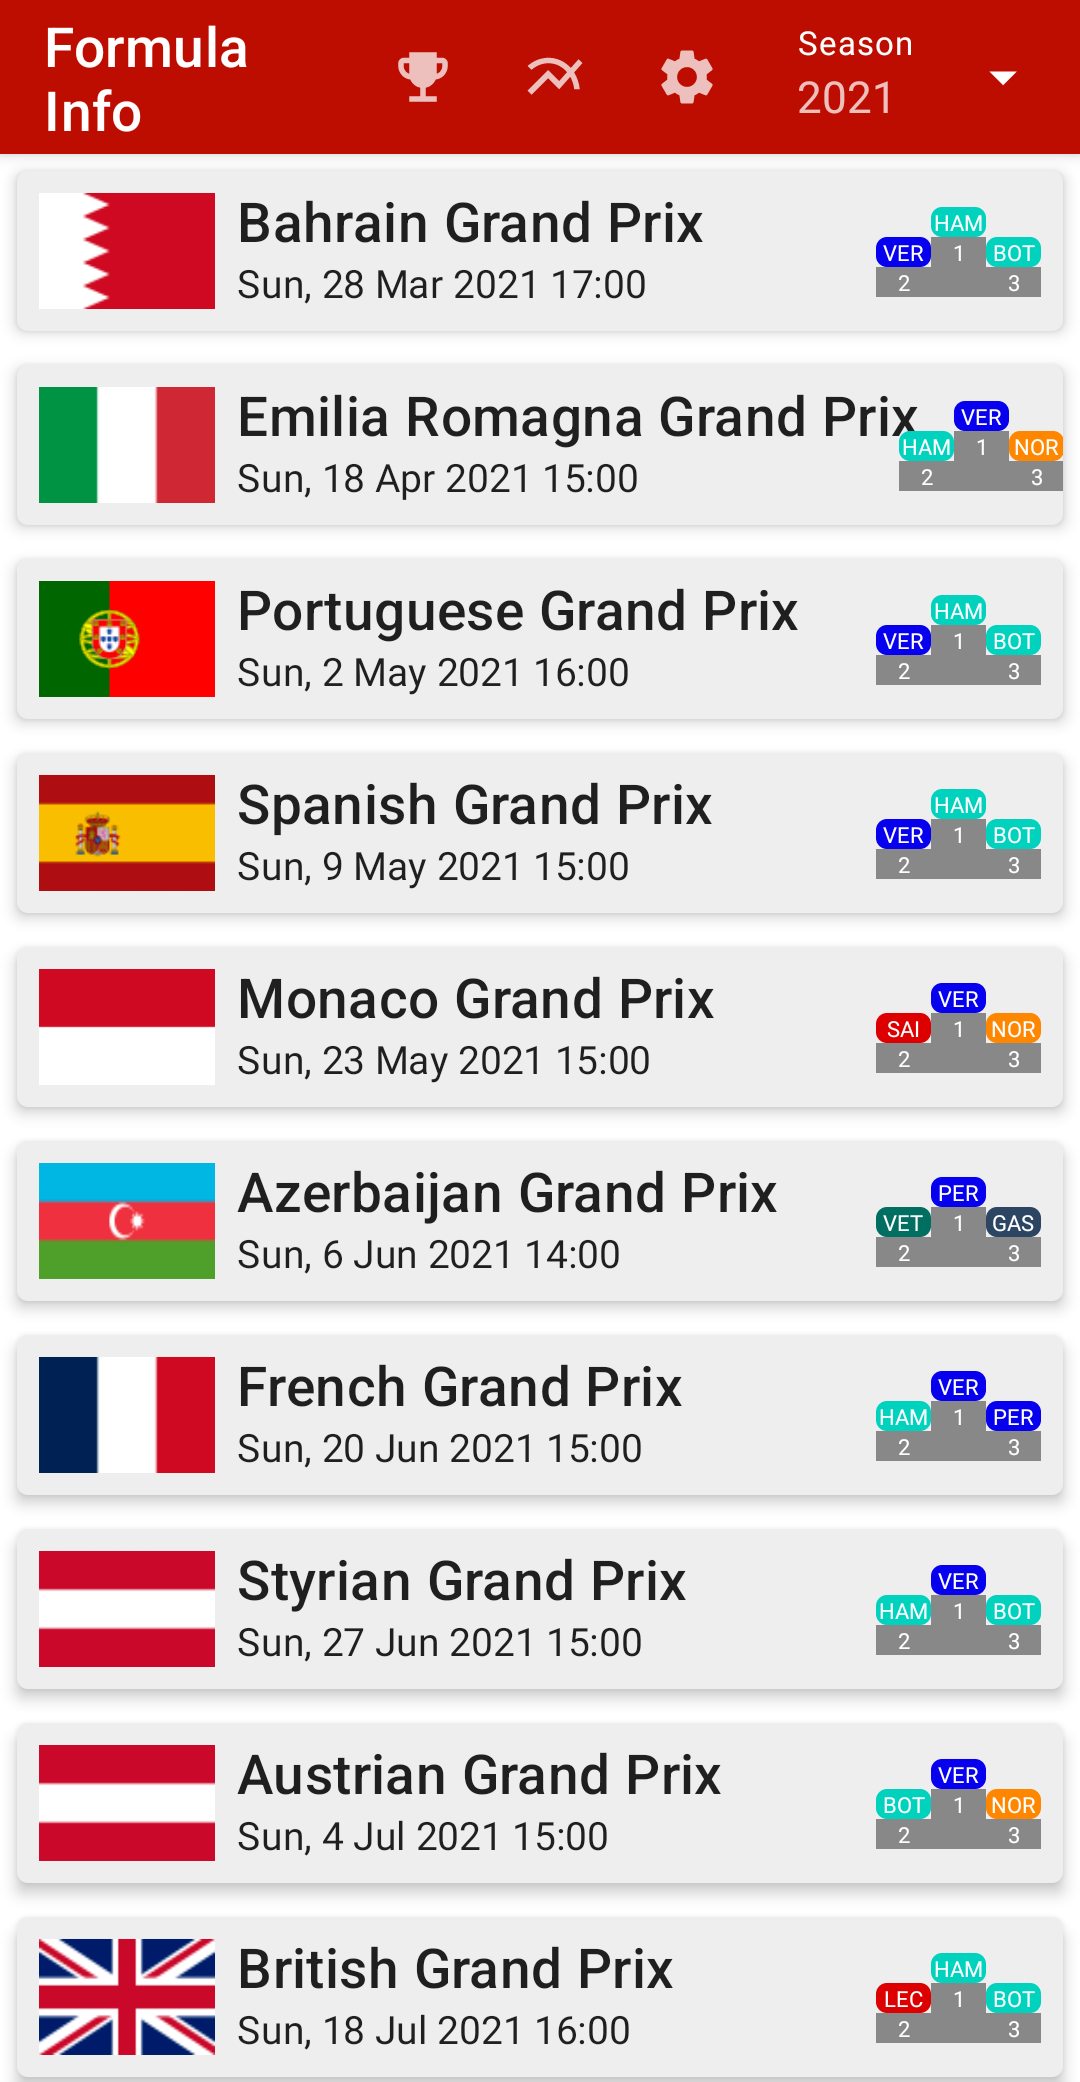
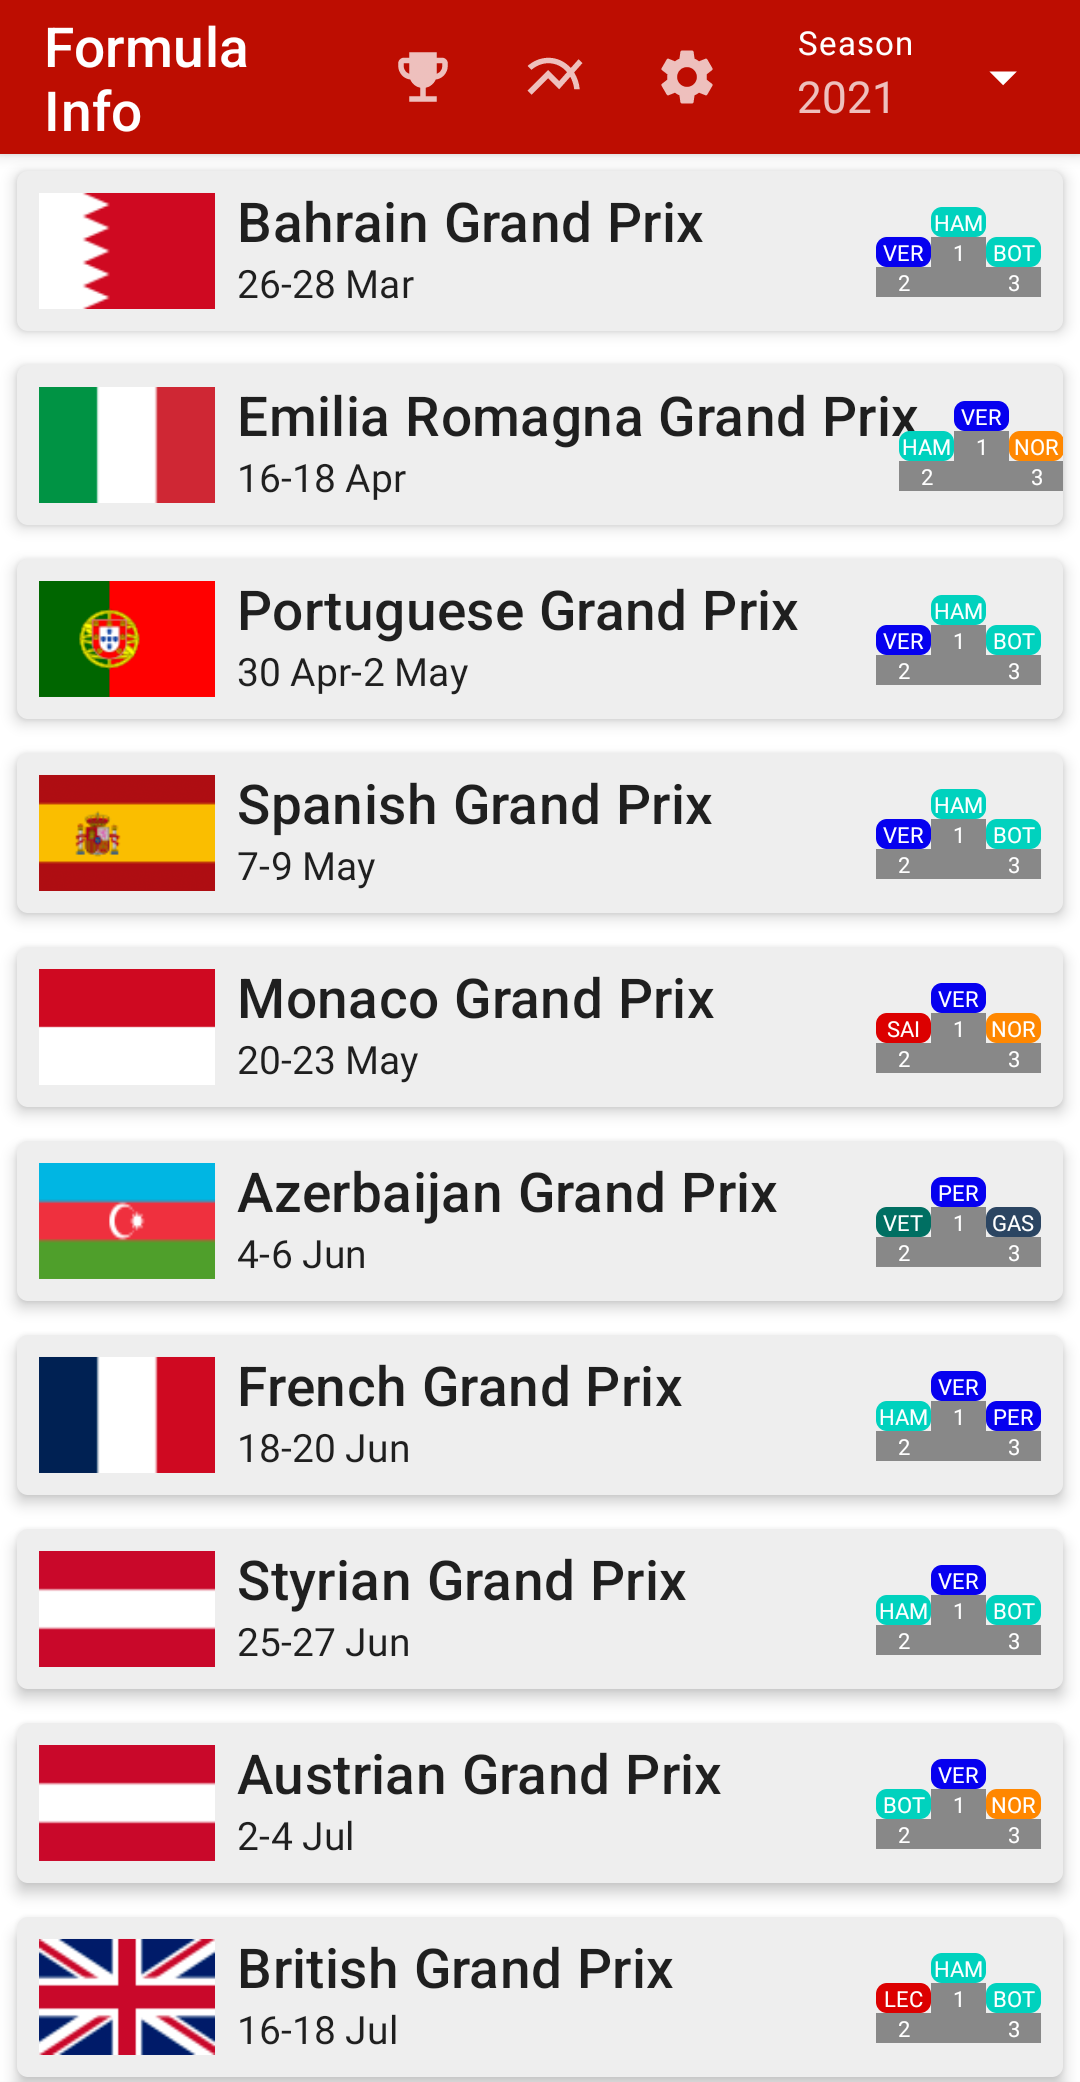
60 update race schedule date format (#105)
* change schedule date format + flag icon + remove year #60

* add new line #60

* fix ktlint issues #60

* support null fp1 date #60

* update screenshot

diff --git a/app/src/main/java/com/jventrib/formulainfo/ui/common/CustomDateTimeFormatter.kt b/app/src/main/java/com/jventrib/formulainfo/ui/common/CustomDateTimeFormatter.kt
@@ -10,42 +10,16 @@ import java.time.temporal.ChronoField
 
 val customDateTimeFormatter: DateTimeFormatter?
     get() {
-        // manually code maps to ensure correct data always used
-        // (locale data can be changed by application code)
-        val dow: MutableMap<Long, String> = HashMap()
-        dow[1L] = "Mon"
-        dow[2L] = "Tue"
-        dow[3L] = "Wed"
-        dow[4L] = "Thu"
-        dow[5L] = "Fri"
-        dow[6L] = "Sat"
-        dow[7L] = "Sun"
-        val moy: MutableMap<Long, String> = HashMap()
-        moy[1L] = "Jan"
-        moy[2L] = "Feb"
-        moy[3L] = "Mar"
-        moy[4L] = "Apr"
-        moy[5L] = "May"
-        moy[6L] = "Jun"
-        moy[7L] = "Jul"
-        moy[8L] = "Aug"
-        moy[9L] = "Sep"
-        moy[10L] = "Oct"
-        moy[11L] = "Nov"
-        moy[12L] = "Dec"
-
         return DateTimeFormatterBuilder()
             .parseCaseInsensitive()
             .parseLenient()
             .optionalStart()
-            .appendText(ChronoField.DAY_OF_WEEK, dow)
+            .appendText(ChronoField.DAY_OF_WEEK, getDayOfMonth())
             .appendLiteral(", ")
             .optionalEnd()
             .appendValue(ChronoField.DAY_OF_MONTH, 1, 2, SignStyle.NOT_NEGATIVE)
             .appendLiteral(' ')
-            .appendText(ChronoField.MONTH_OF_YEAR, moy)
-            .appendLiteral(' ')
-            .appendValue(ChronoField.YEAR, 4) // 2 digit year not handled
+            .appendText(ChronoField.MONTH_OF_YEAR, getMonthOfYear())
             .appendLiteral(' ')
             .appendValue(ChronoField.HOUR_OF_DAY, 2)
             .appendLiteral(':')
@@ -54,8 +28,16 @@ val customDateTimeFormatter: DateTimeFormatter?
             .toFormatter()
     }
 
-fun Instant.formatDateTime(): String =
-    ZonedDateTime.ofInstant(this, ZoneId.systemDefault()).format(customDateTimeFormatter)
+val simpleDayMonthFormatter: DateTimeFormatter?
+    get() {
+        return DateTimeFormatterBuilder()
+            .parseCaseInsensitive()
+            .parseLenient()
+            .appendValue(ChronoField.DAY_OF_MONTH, 1, 2, SignStyle.NOT_NEGATIVE)
+            .appendLiteral(' ')
+            .appendText(ChronoField.MONTH_OF_YEAR, getMonthOfYear())
+            .toFormatter()
+    }
 
 val customTimeHourMinFormatter: DateTimeFormatter?
     get() {
@@ -68,5 +50,52 @@ val customTimeHourMinFormatter: DateTimeFormatter?
             .toFormatter()
     }
 
+fun Instant.zonedDateTime(): ZonedDateTime =
+    ZonedDateTime.ofInstant(this, ZoneId.systemDefault())
+
+fun Instant.formatDateTime(): String =
+    this.zonedDateTime().format(customDateTimeFormatter)
+
 fun Instant.formatTime(): String =
-    ZonedDateTime.ofInstant(this, ZoneId.systemDefault()).format(customTimeHourMinFormatter)
+    this.zonedDateTime().format(customTimeHourMinFormatter)
+
+fun formatDateRange(from: Instant?, to: Instant): String {
+    val zonedTo = to.zonedDateTime()
+    val formattedZonedTo = zonedTo.format(simpleDayMonthFormatter)
+    if (from == null) return formattedZonedTo
+
+    val zonedFrom = from.zonedDateTime()
+    return if (zonedFrom.monthValue == zonedTo.monthValue) "${zonedFrom.dayOfMonth}-$formattedZonedTo"
+    else "${zonedFrom.format(simpleDayMonthFormatter)}-$formattedZonedTo"
+}
+
+// manually code maps to ensure correct data always used
+// (locale data can be changed by application code)
+fun getDayOfMonth(): Map<Long, String> {
+    val dow: MutableMap<Long, String> = HashMap()
+    dow[1L] = "Mon"
+    dow[2L] = "Tue"
+    dow[3L] = "Wed"
+    dow[4L] = "Thu"
+    dow[5L] = "Fri"
+    dow[6L] = "Sat"
+    dow[7L] = "Sun"
+    return dow
+}
+
+fun getMonthOfYear(): Map<Long, String> {
+    val moy: MutableMap<Long, String> = HashMap()
+    moy[1L] = "Jan"
+    moy[2L] = "Feb"
+    moy[3L] = "Mar"
+    moy[4L] = "Apr"
+    moy[5L] = "May"
+    moy[6L] = "Jun"
+    moy[7L] = "Jul"
+    moy[8L] = "Aug"
+    moy[9L] = "Sep"
+    moy[10L] = "Oct"
+    moy[11L] = "Nov"
+    moy[12L] = "Dec"
+    return moy
+}

diff --git a/app/src/main/java/com/jventrib/formulainfo/ui/race/RaceInfo.kt b/app/src/main/java/com/jventrib/formulainfo/ui/race/RaceInfo.kt
@@ -2,13 +2,18 @@ package com.jventrib.formulainfo.ui.race
 
 import androidx.compose.foundation.layout.Column
 import androidx.compose.foundation.layout.Row
+import androidx.compose.foundation.layout.Spacer
 import androidx.compose.foundation.layout.fillMaxHeight
 import androidx.compose.foundation.layout.fillMaxWidth
 import androidx.compose.foundation.layout.height
 import androidx.compose.foundation.layout.padding
+import androidx.compose.foundation.layout.size
 import androidx.compose.foundation.layout.width
+import androidx.compose.material.Icon
 import androidx.compose.material.MaterialTheme
 import androidx.compose.material.Text
+import androidx.compose.material.icons.Icons
+import androidx.compose.material.icons.outlined.SportsScore
 import androidx.compose.runtime.Composable
 import androidx.compose.runtime.collectAsState
 import androidx.compose.runtime.getValue
@@ -31,7 +36,9 @@ import com.jventrib.formulainfo.model.db.Race
 import com.jventrib.formulainfo.model.db.Result
 import com.jventrib.formulainfo.ui.common.composable.Image
 import com.jventrib.formulainfo.ui.common.composable.ItemCard
+import com.jventrib.formulainfo.ui.common.formatDateRange
 import com.jventrib.formulainfo.ui.common.formatDateTime
+import com.jventrib.formulainfo.ui.common.formatTime
 import com.jventrib.formulainfo.ui.common.raceCountDownFormat
 import com.jventrib.formulainfo.ui.schedule.Podium
 import com.jventrib.formulainfo.ui.schedule.getRaceSample
@@ -105,7 +112,7 @@ fun RaceInfo(
                         MaterialTheme.typography.body1
                     )
                 } else {
-                    SessionDateText(race.raceInfo.sessions.race)
+                    SessionDateRangeText(race.raceInfo.sessions.fp1, race.raceInfo.sessions.race)
                 }
                 if (mode == RaceInfoMode.Maxi) {
                     CountDown(to = race.raceInfo.sessions.race)
@@ -141,6 +148,37 @@ private fun SessionDateText(
         style = textStyle,
         fontWeight = if (it.isAfter(now())) FontWeight.Bold else FontWeight.Normal
     )
+}
+
+@Composable
+private fun SessionDateRangeText(
+    from: Instant?,
+    to: Instant,
+    textStyle: TextStyle = MaterialTheme.typography.body2
+) {
+    Row(
+        verticalAlignment = CenterVertically
+
+    ) {
+        Text(
+            text = formatDateRange(from, to),
+            style = textStyle,
+            fontWeight = if (to.isAfter(now())) FontWeight.Bold else FontWeight.Normal
+        )
+        if (to.isAfter(now())) {
+            Spacer(Modifier.width(10.0.dp))
+            Icon(
+                Icons.Outlined.SportsScore,
+                contentDescription = "Race start time",
+                modifier = Modifier.size(width = 14.dp, height = 14.dp)
+            )
+            Text(
+                text = to.formatTime(),
+                style = textStyle,
+                fontWeight = FontWeight.Bold
+            )
+        }
+    }
 }
 
 @Composable
